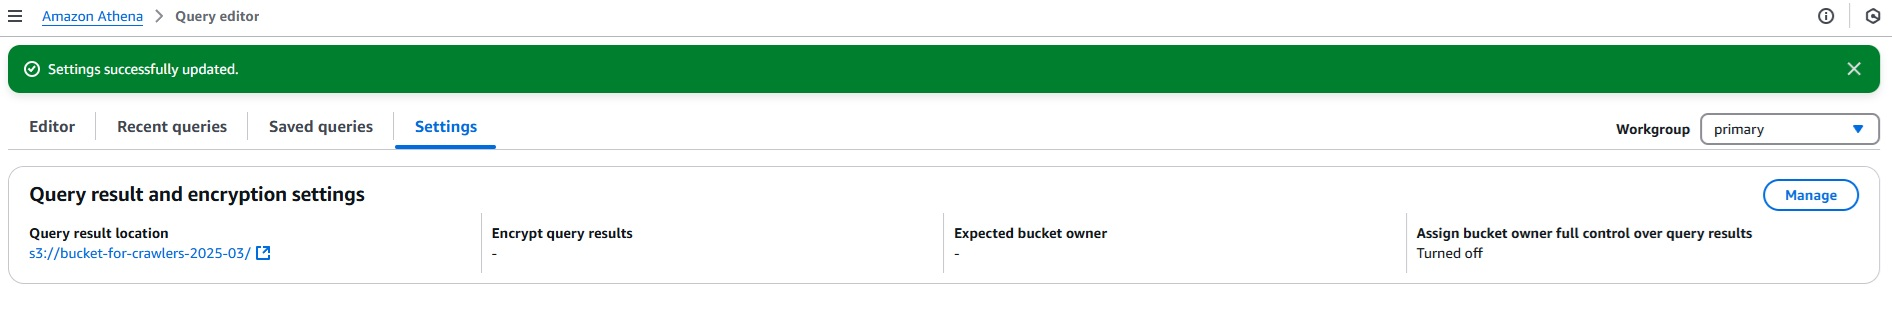
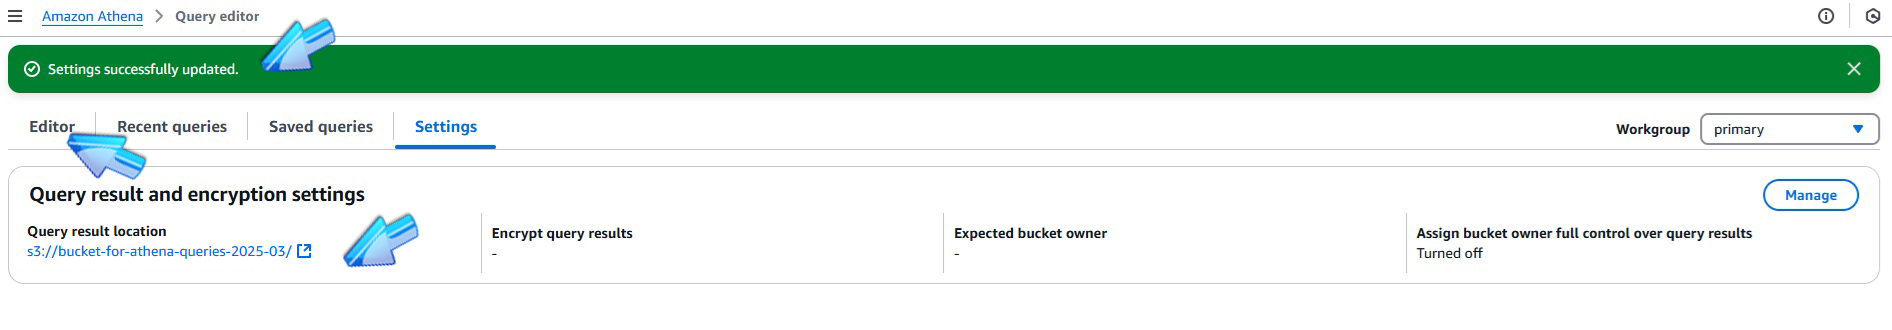
Update AWS Glue documentation images for Athena bucket selection

diff --git a/thisisthelab.md b/thisisthelab.md
@@ -227,3 +227,16 @@
 
 ![AWS Athena Output query bucket](./images/28a-AWSAthenaOutputQueryResultLocation.jpg)
 
+###### ![Brazil](https://github.com/Acheroniano/flag-icon/blob/master/png/16/country-4x3/br.png "Brazil") 
+###### Escolha o bucket *bucket-for-athena-queries-2025-03* como destino dos SQL Queries realizados.
+###### Confira a escolha e depois clique em *Editor*.
+
+###### ![United States](https://github.com/Acheroniano/flag-icon/blob/master/png/16/country-4x3/us.png "United States") 
+###### Choose the bucket *bucket-for-athena-queries-2025-03* as the destination of the SQL Queries performed.
+###### Check the choice and then click on *Editor*.
+
+![AWS Athena choosing S3 bucket destination for Queries](./images/29a-AWSAthenaChoosingTheOtherBucket.jpg)
+![AWS Athena Editor](./images/30a-AWSAthenaChoosingTheOtherBucket.jpg)
+![AWS Athena bucket choosed](./images/31a-AWSAthenaChoosingTheOtherBucket.jpg)
+
+
